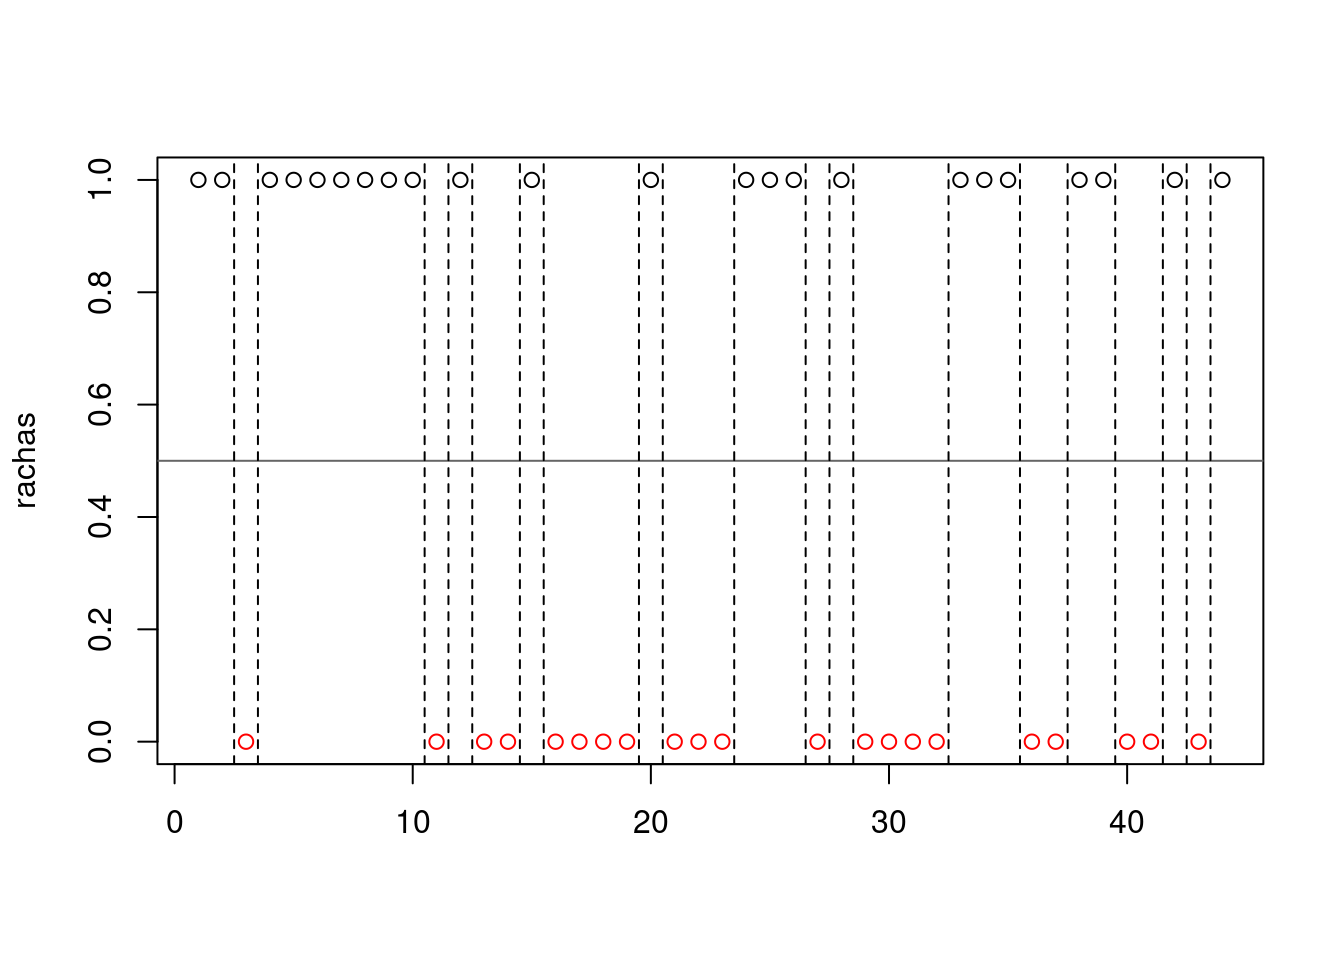
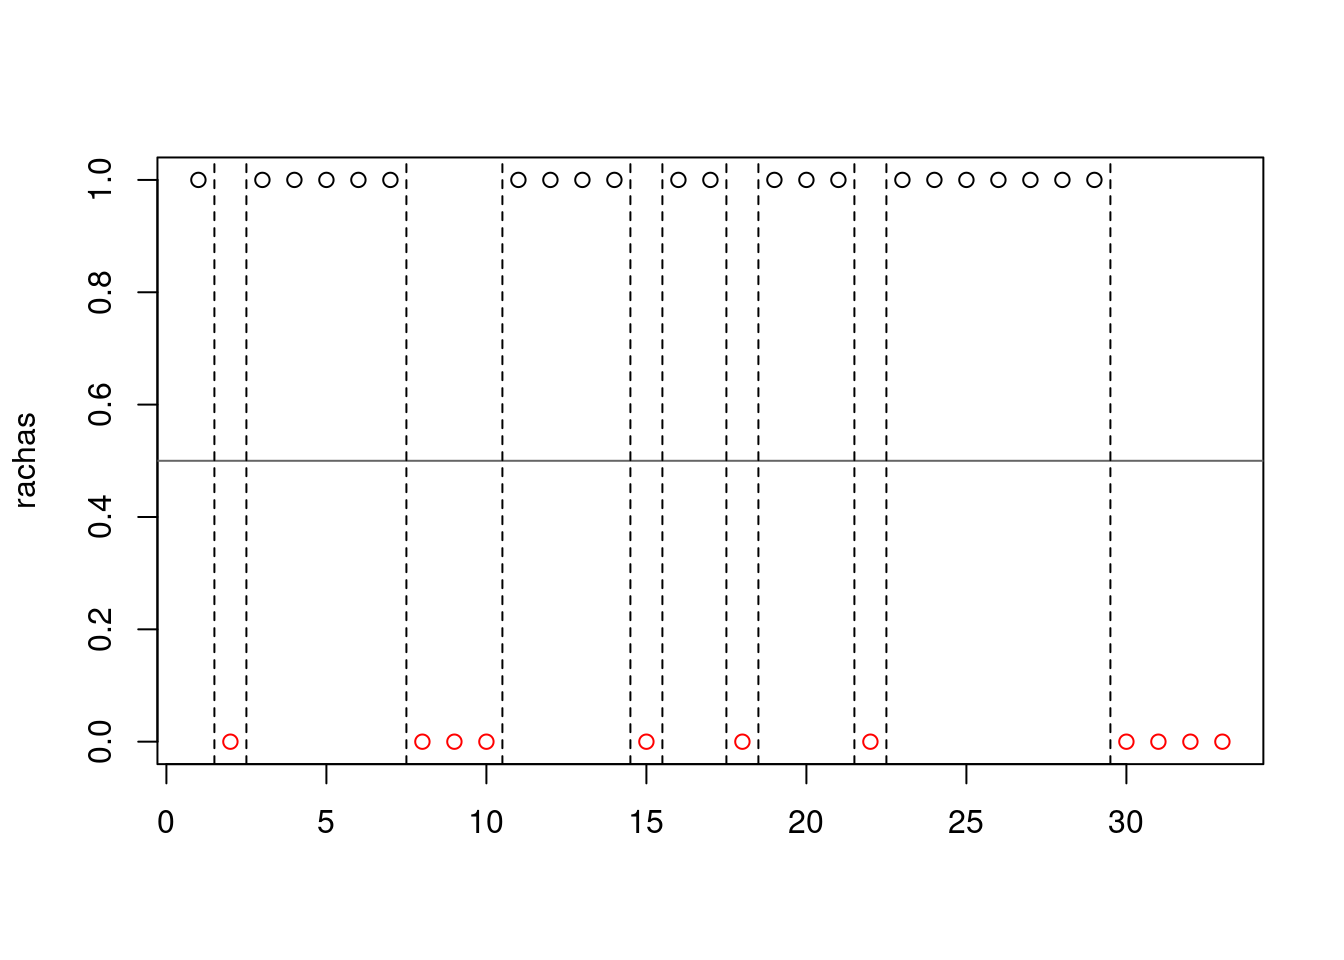
ajuste guia 4.3

diff --git a/codigo403.html b/codigo403.html
@@ -583,7 +583,7 @@ w=rnorm(100,1000,2) # simulación de los datos</code></pre>
     Shapiro-Wilk normality test
 
 data:  w
-W = 0.99292, p-value = 0.8829</code></pre>
+W = 0.99177, p-value = 0.8042</code></pre>
 <p><br/><br/><br/></p>
 <div id="prueba-de-hipótesis-para-una-media" class="section level3">
 <h3><strong>Prueba de hipótesis para una media</strong></h3>
@@ -605,13 +605,13 @@ W = 0.99292, p-value = 0.8829</code></pre>
     One-sample z-Test
 
 data:  w
-z = 0.3843, p-value = 0.7008
+z = 0.56124, p-value = 0.5746
 alternative hypothesis: true mean is not equal to 1000
 95 percent confidence interval:
-  999.6849 1000.4689
+  999.7203 1000.5042
 sample estimates:
 mean of x 
- 1000.077 </code></pre>
+ 1000.112 </code></pre>
 <p><br/><br/><br/></p>
 </div>
 <div id="prueba-de-hipótesis-para-una-media-1" class="section level3">
@@ -948,15 +948,16 @@ mean of x mean of y
 <div id="de-rachas" class="section level2">
 <h2><strong>de rachas</strong></h2>
 <pre class="r"><code>library(randtests)
-rachas&lt;-c(1,1,0,1,1,1,1,1,1,1,0,1,0,0,1,0,0,0,0,1,0,0,0,1,1,1,0,1,0,0,0,0,1,1,1,0,0,1,1,0,0,1,0,1)
+x=c(&quot;N&quot;,&quot;D&quot;,&quot;N&quot;,&quot;N&quot;,&quot;N&quot;,&quot;N&quot;,&quot;N&quot;,&quot;D&quot;,&quot;D&quot;,&quot;D&quot;,&quot;N&quot;,&quot;N&quot;,&quot;N&quot;,&quot;N&quot;,&quot;D&quot;,&quot;N&quot;,&quot;N&quot;,&quot;D&quot;,&quot;N&quot;,&quot;N&quot;,&quot;N&quot;,&quot;D&quot;,&quot;N&quot;,&quot;N&quot;,&quot;N&quot;,&quot;N&quot;,&quot;N&quot;,&quot;N&quot;,&quot;N&quot;,&quot;D&quot;,&quot;D&quot;,&quot;D&quot;,&quot;D&quot;)
+rachas&lt;-as.numeric(x==&quot;N&quot;)
 runs.test(rachas,alternative = &quot;left.sided&quot;,threshold = 0.5,pvalue = &quot;exact&quot;,plot=F)</code></pre>
 <p><img src="codigo403_files/figure-html/unnamed-chunk-13-1.png" width="672" /></p>
 <pre><code>
     Runs Test
 
 data:  rachas
-statistic = -0.59756, runs = 21, n1 = 23, n2 = 21, n = 44, p-value =
-0.3273
+statistic = -1.465, runs = 12, n1 = 22, n2 = 11, n = 33, p-value =
+0.1032
 alternative hypothesis: trend</code></pre>
 <p><br/><br/><br/></p>
 </div>
@@ -988,7 +989,7 @@ plot(density(x), las=1)</code></pre>
     Shapiro-Wilk normality test
 
 data:  x
-W = 0.99239, p-value = 0.3852</code></pre>
+W = 0.99479, p-value = 0.719</code></pre>
 <p>Esta prueba no requiere la instalación de paquetes adicionales, está disponible en la configuración básica de R</p>
 <p><br/><br/></p>
 </div>
@@ -1006,7 +1007,7 @@ W = 0.99239, p-value = 0.3852</code></pre>
     Adjusted Jarque-Bera test for normality
 
 data:  x
-AJB = 1.373, p-value = 0.4745</code></pre>
+AJB = 0.1453, p-value = 0.914</code></pre>
 <p><br/><br/></p>
 </div>
 <div id="frosini" class="section level2">
@@ -1016,7 +1017,7 @@ AJB = 1.373, p-value = 0.4745</code></pre>
     Frosini test for normality
 
 data:  x
-B = 0.21922, p-value = 0.249</code></pre>
+B = 0.21754, p-value = 0.264</code></pre>
 <p><br/><br/></p>
 </div>
 <div id="geary" class="section level2">
@@ -1026,7 +1027,7 @@ B = 0.21922, p-value = 0.249</code></pre>
     Geary test for normality
 
 data:  x
-d = 0.78853, p-value = 0.755</code></pre>
+d = 0.82169, p-value = 0.0565</code></pre>
 <p><br/><br/></p>
 </div>
 <div id="hagazy-green-1" class="section level2">
@@ -1036,7 +1037,7 @@ d = 0.78853, p-value = 0.755</code></pre>
     Hegazy-Green test for normality
 
 data:  x
-T = 0.062796, p-value = 0.3125</code></pre>
+T = 0.057839, p-value = 0.442</code></pre>
 <p><br/></p>
 </div>
 <div id="hagazy-green-2" class="section level2">
@@ -1046,7 +1047,7 @@ T = 0.062796, p-value = 0.3125</code></pre>
     Hegazy-Green test for normality
 
 data:  x
-T = 0.0090394, p-value = 0.263</code></pre>
+T = 0.0060005, p-value = 0.5575</code></pre>
 <p><br/><br/></p>
 </div>
 <div id="jarque-bera" class="section level2">
@@ -1056,7 +1057,7 @@ T = 0.0090394, p-value = 0.263</code></pre>
     Jarque-Bera test for normality
 
 data:  x
-JB = 1.1606, p-value = 0.51</code></pre>
+JB = 0.19692, p-value = 0.908</code></pre>
 <p><br/><br/></p>
 </div>
 <div id="de-kurtosis" class="section level2">
@@ -1066,7 +1067,7 @@ JB = 1.1606, p-value = 0.51</code></pre>
     Kurtosis test for normality
 
 data:  x
-T = 3.2642, p-value = 0.4315</code></pre>
+T = 2.8641, p-value = 0.6835</code></pre>
 <p><br/><br/></p>
 </div>
 <div id="de-sesgo" class="section level2">
@@ -1076,7 +1077,7 @@ T = 3.2642, p-value = 0.4315</code></pre>
     Skewness test for normality
 
 data:  x
-T = -0.13181, p-value = 0.436</code></pre>
+T = 0.035884, p-value = 0.83</code></pre>
 <p><br/><br/></p>
 </div>
 <div id="spiegelhalter" class="section level2">
@@ -1086,7 +1087,7 @@ T = -0.13181, p-value = 0.436</code></pre>
     Spiegelhalter test for normality
 
 data:  x
-T = 1.2682, p-value = 0.234</code></pre>
+T = 1.217, p-value = 0.9365</code></pre>
 <p><br/><br/></p>
 </div>
 <div id="weisberg-bingham" class="section level2">
@@ -1096,7 +1097,7 @@ T = 1.2682, p-value = 0.234</code></pre>
     Weisberg-Bingham test for normality
 
 data:  x
-WB = 0.9923, p-value = 0.3205</code></pre>
+WB = 0.9948, p-value = 0.652</code></pre>
 <p><br/><br/><br/></p>
 </div>
 <div id="paquete-nortest" class="section level2">
@@ -1113,7 +1114,7 @@ WB = 0.9923, p-value = 0.3205</code></pre>
     Anderson-Darling normality test
 
 data:  x
-A = 0.45038, p-value = 0.2728</code></pre>
+A = 0.42372, p-value = 0.316</code></pre>
 <p><br/></p>
 </div>
 <div id="cramer-von-mises" class="section level2">
@@ -1123,7 +1124,7 @@ A = 0.45038, p-value = 0.2728</code></pre>
     Cramer-von Mises normality test
 
 data:  x
-W = 0.08264, p-value = 0.1904</code></pre>
+W = 0.080007, p-value = 0.206</code></pre>
 <p><br/></p>
 </div>
 <div id="lilliefors-kolmogorov-smirnov" class="section level2">
@@ -1133,7 +1134,7 @@ W = 0.08264, p-value = 0.1904</code></pre>
     Lilliefors (Kolmogorov-Smirnov) normality test
 
 data:  x
-D = 0.053504, p-value = 0.1753</code></pre>
+D = 0.04844, p-value = 0.3018</code></pre>
 <p><br/></p>
 </div>
 <div id="chi-cuadrado-de-pearson" class="section level2">
@@ -1143,7 +1144,7 @@ D = 0.053504, p-value = 0.1753</code></pre>
     Pearson chi-square normality test
 
 data:  x
-P = 15.39, p-value = 0.352</code></pre>
+P = 13.18, p-value = 0.5124</code></pre>
 <p><br/></p>
 </div>
 <div id="shapiro-francia" class="section level2">
@@ -1153,8 +1154,10 @@ P = 15.39, p-value = 0.352</code></pre>
     Shapiro-Francia normality test
 
 data:  x
-W = 0.9923, p-value = 0.3198</code></pre>
+W = 0.9948, p-value = 0.6354</code></pre>
 <p>En todos los casos se presenta un valor-p grande por lo cual no se rechaza <span class="math inline">\(Ho\)</span>, asumimos que <span class="math inline">\(Ho\)</span> es verdad. Asumimos que la distribución de la variable <span class="math inline">\(X\)</span> es normal</p>
+<p>Referencias :</p>
+<p><a href="https://rpubs.com/CJRR/PUJ_DECB_NP" class="uri">https://rpubs.com/CJRR/PUJ_DECB_NP</a></p>
 </div>
 </div>
 
